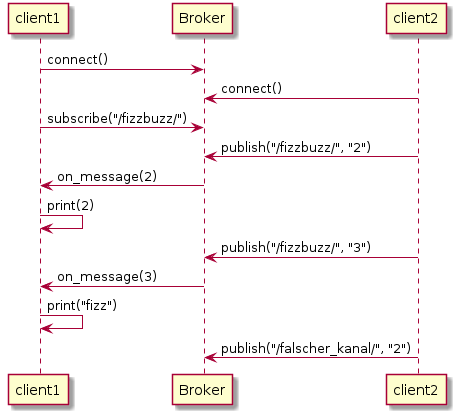
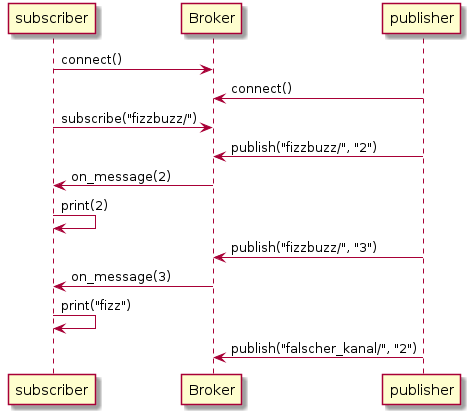
mqtt example split into pub and sub.

diff --git a/fizzbuzz.html b/fizzbuzz.html
@@ -4,7 +4,7 @@
 <html xmlns="http://www.w3.org/1999/xhtml" lang="en" xml:lang="en">
 <head>
 <title>FizzBuzz Katas</title>
-<!-- 2017-04-17 Mo 10:30 -->
+<!-- 2017-04-17 Mo 19:37 -->
 <meta  http-equiv="Content-Type" content="text/html;charset=utf-8" />
 <meta  name="generator" content="Org-mode" />
 <meta  name="author" content="Marco Bakera" />
@@ -1491,104 +1491,110 @@ Eine mögliche Kommunikation zwischen zwei Clients und dem Broker.
 <span class="linenr"> 2: </span><span style="color: #a020f0;">import</span> threading
 <span class="linenr"> 3: </span><span style="color: #a020f0;">import</span> time
 <span class="linenr"> 4: </span>
-<span class="linenr"> 5: </span><span style="color: #a020f0;">class</span> <span style="color: #228b22;">FizzbuzzMqttClient</span>:
+<span class="linenr"> 5: </span><span style="color: #a020f0;">class</span> <span style="color: #228b22;">FizzbuzzPublisher</span>:
 <span class="linenr"> 6: </span>    <span style="color: #a020f0;">def</span> <span style="color: #0000ff;">__init__</span>(<span style="color: #a020f0;">self</span>, server=<span style="color: #8b2252;">"iot.eclipse.org"</span>, port=1883):
-<span class="linenr"> 7: </span>        <span style="color: #8b2252;">"""Create a client and connect to  the eclipse test Broker by default."""</span>
-<span class="linenr"> 8: </span>        <span style="color: #a020f0;">self</span>._topic = <span style="color: #8b2252;">"/fizzbuzz/"</span>
-<span class="linenr"> 9: </span>        <span style="color: #a020f0;">self</span>.client = mqtt.Client()
-<span class="linenr">10: </span>        <span style="color: #a020f0;">self</span>.client.on_connect = <span style="color: #a020f0;">self</span>.on_connect
-<span class="linenr">11: </span>        <span style="color: #a020f0;">self</span>.client.on_message = <span style="color: #a020f0;">self</span>.on_message
-<span class="linenr">12: </span>        <span style="color: #a020f0;">self</span>.client.connect(server, port, keepalive=60)
+<span class="linenr"> 7: </span>        <span style="color: #a020f0;">self</span>.client = mqtt.Client()
+<span class="linenr"> 8: </span>        <span style="color: #a020f0;">self</span>.client.connect(server, port, keepalive=60)
+<span class="linenr"> 9: </span>
+<span class="linenr">10: </span>    <span style="color: #a020f0;">def</span> <span style="color: #0000ff;">publish</span>(<span style="color: #a020f0;">self</span>, payload):
+<span class="linenr">11: </span>        <span style="color: #a020f0;">print</span>(<span style="color: #8b2252;">"[publish]"</span>, payload)
+<span class="linenr">12: </span>        <span style="color: #a020f0;">self</span>.client.publish(<span style="color: #8b2252;">"fizzbuzz/"</span>, payload)
 <span class="linenr">13: </span>
-<span class="linenr">14: </span>    <span style="color: #a020f0;">def</span> <span style="color: #0000ff;">start</span>(<span style="color: #a020f0;">self</span>):
-<span class="linenr">15: </span>        <span style="color: #a020f0;">self</span>.client.loop_forever()
-<span class="linenr">16: </span>
-<span class="linenr">17: </span>    <span style="color: #a020f0;">def</span> <span style="color: #0000ff;">on_connect</span>(<span style="color: #a020f0;">self</span>, client, userdata, flags, rc):
-<span class="linenr">18: </span>        <span style="color: #a020f0;">print</span>(<span style="color: #8b2252;">"[connected]"</span>)
-<span class="linenr">19: </span>        <span style="color: #a020f0;">self</span>.client.subscribe(<span style="color: #a020f0;">self</span>._topic)
-<span class="linenr">20: </span>
-<span class="linenr">21: </span>    <span style="color: #a020f0;">def</span> <span style="color: #0000ff;">on_message</span>(<span style="color: #a020f0;">self</span>, client, userdata, msg):
-<span class="linenr">22: </span>        <span style="color: #a0522d;">i</span> = <span style="color: #483d8b;">int</span>(msg.payload)
-<span class="linenr">23: </span>
-<span class="linenr">24: </span>        <span style="color: #a020f0;">if</span> i % 3 == 0 <span style="color: #a020f0;">and</span> i % 5 == 0:
-<span class="linenr">25: </span>            <span style="color: #a0522d;">answer</span> = <span style="color: #8b2252;">"fizzbuzz"</span>
-<span class="linenr">26: </span>        <span style="color: #a020f0;">elif</span> i % 3 == 0:
-<span class="linenr">27: </span>            <span style="color: #a0522d;">answer</span> = <span style="color: #8b2252;">"fizz"</span>
-<span class="linenr">28: </span>        <span style="color: #a020f0;">elif</span> i % 5 == 0:
-<span class="linenr">29: </span>            <span style="color: #a0522d;">answer</span> = <span style="color: #8b2252;">"buzz"</span>
-<span class="linenr">30: </span>        <span style="color: #a020f0;">else</span>:
-<span class="linenr">31: </span>            <span style="color: #a0522d;">answer</span> = i
-<span class="linenr">32: </span>
-<span class="linenr">33: </span>        <span style="color: #a020f0;">print</span>(<span style="color: #8b2252;">"[msg reveived] topic:"</span>, msg.topic, <span style="color: #8b2252;">"payload:"</span>, i, <span style="color: #8b2252;">"answer:"</span>, answer)
-<span class="linenr">34: </span>
-<span class="linenr">35: </span>    <span style="color: #a020f0;">def</span> <span style="color: #0000ff;">publish</span>(<span style="color: #a020f0;">self</span>, payload):
-<span class="linenr">36: </span>        <span style="color: #a020f0;">print</span>(<span style="color: #8b2252;">"[publish]"</span>, payload)
-<span class="linenr">37: </span>        <span style="color: #a020f0;">self</span>.client.publish(<span style="color: #a020f0;">self</span>._topic, payload)
-<span class="linenr">38: </span>
-<span class="linenr">39: </span>
-<span class="linenr">40: </span><span style="color: #b22222;">#### </span><span style="color: #b22222;">Client 1 ####</span>
-<span class="linenr">41: </span>
-<span class="linenr">42: </span><span style="color: #b22222;"># </span><span style="color: #b22222;">Start thread in background that responds to messages</span>
-<span class="linenr">43: </span><span style="color: #a0522d;">mqttc1</span> = FizzbuzzMqttClient()
-<span class="linenr">44: </span><span style="color: #a0522d;">th1</span> = threading.Thread(target=mqttc1.start, daemon=<span style="color: #008b8b;">True</span>)
-<span class="linenr">45: </span>th1.start()
-<span class="linenr">46: </span>
-<span class="linenr">47: </span><span style="color: #b22222;">#### </span><span style="color: #b22222;">Client 2 ####</span>
-<span class="linenr">48: </span>
-<span class="linenr">49: </span><span style="color: #a020f0;">print</span>(<span style="color: #8b2252;">"[start publishing]"</span>)
-<span class="linenr">50: </span><span style="color: #a0522d;">mqttc2</span> = FizzbuzzMqttClient()
-<span class="linenr">51: </span><span style="color: #a020f0;">for</span> i <span style="color: #a020f0;">in</span> <span style="color: #483d8b;">range</span>(1,21):
-<span class="linenr">52: </span>    mqttc2.publish(i)
-<span class="linenr">53: </span>    <span style="color: #b22222;"># </span><span style="color: #b22222;">waiting some time and give the subscribed client time to do the job.</span>
-<span class="linenr">54: </span>    time.sleep(0.1)
-<span class="linenr">55: </span>
-<span class="linenr">56: </span>time.sleep(3)
+<span class="linenr">14: </span>
+<span class="linenr">15: </span><span style="color: #a020f0;">class</span> <span style="color: #228b22;">FizzbuzzSubscriber</span>:
+<span class="linenr">16: </span>    <span style="color: #a020f0;">def</span> <span style="color: #0000ff;">__init__</span>(<span style="color: #a020f0;">self</span>, server=<span style="color: #8b2252;">"iot.eclipse.org"</span>, port=1883):
+<span class="linenr">17: </span>        <span style="color: #a020f0;">self</span>.client = mqtt.Client()
+<span class="linenr">18: </span>        <span style="color: #a020f0;">self</span>.client.on_connect = <span style="color: #a020f0;">self</span>.on_connect
+<span class="linenr">19: </span>        <span style="color: #a020f0;">self</span>.client.on_message = <span style="color: #a020f0;">self</span>.on_message
+<span class="linenr">20: </span>        <span style="color: #a020f0;">self</span>.client.connect(server, port, keepalive=60)
+<span class="linenr">21: </span>
+<span class="linenr">22: </span>    <span style="color: #a020f0;">def</span> <span style="color: #0000ff;">start</span>(<span style="color: #a020f0;">self</span>):
+<span class="linenr">23: </span>        <span style="color: #a020f0;">self</span>.client.loop_forever()
+<span class="linenr">24: </span>
+<span class="linenr">25: </span>    <span style="color: #a020f0;">def</span> <span style="color: #0000ff;">on_connect</span>(<span style="color: #a020f0;">self</span>, client, userdata, flags, rc):
+<span class="linenr">26: </span>        <span style="color: #a020f0;">print</span>(<span style="color: #8b2252;">"[connected]"</span>)
+<span class="linenr">27: </span>        <span style="color: #a020f0;">self</span>.client.subscribe(<span style="color: #8b2252;">"fizzbuzz/"</span>)
+<span class="linenr">28: </span>
+<span class="linenr">29: </span>    <span style="color: #a020f0;">def</span> <span style="color: #0000ff;">on_message</span>(<span style="color: #a020f0;">self</span>, client, userdata, msg):
+<span class="linenr">30: </span>        <span style="color: #a0522d;">i</span> = <span style="color: #483d8b;">int</span>(msg.payload)
+<span class="linenr">31: </span>
+<span class="linenr">32: </span>        <span style="color: #a020f0;">if</span> i % 3 == 0 <span style="color: #a020f0;">and</span> i % 5 == 0:
+<span class="linenr">33: </span>            <span style="color: #a0522d;">answer</span> = <span style="color: #8b2252;">"fizzbuzz"</span>
+<span class="linenr">34: </span>        <span style="color: #a020f0;">elif</span> i % 3 == 0:
+<span class="linenr">35: </span>            <span style="color: #a0522d;">answer</span> = <span style="color: #8b2252;">"fizz"</span>
+<span class="linenr">36: </span>        <span style="color: #a020f0;">elif</span> i % 5 == 0:
+<span class="linenr">37: </span>            <span style="color: #a0522d;">answer</span> = <span style="color: #8b2252;">"buzz"</span>
+<span class="linenr">38: </span>        <span style="color: #a020f0;">else</span>:
+<span class="linenr">39: </span>            <span style="color: #a0522d;">answer</span> = i
+<span class="linenr">40: </span>
+<span class="linenr">41: </span>        <span style="color: #a020f0;">print</span>(<span style="color: #8b2252;">"[msg reveived] topic:"</span>, msg.topic, <span style="color: #8b2252;">"payload:"</span>, i, <span style="color: #8b2252;">"answer:"</span>, answer)
+<span class="linenr">42: </span>
+<span class="linenr">43: </span>
+<span class="linenr">44: </span><span style="color: #b22222;">#### </span><span style="color: #b22222;">Subscriber ####</span>
+<span class="linenr">45: </span>
+<span class="linenr">46: </span><span style="color: #b22222;"># </span><span style="color: #b22222;">Start thread in background that responds to messages</span>
+<span class="linenr">47: </span><span style="color: #a020f0;">print</span>(<span style="color: #8b2252;">"[subscribing]"</span>)
+<span class="linenr">48: </span><span style="color: #a0522d;">sub</span> = FizzbuzzSubscriber()
+<span class="linenr">49: </span><span style="color: #a0522d;">th1</span> = threading.Thread(target=sub.start, daemon=<span style="color: #008b8b;">True</span>)
+<span class="linenr">50: </span>th1.start()
+<span class="linenr">51: </span>
+<span class="linenr">52: </span><span style="color: #b22222;">#### </span><span style="color: #b22222;">Publisher ####</span>
+<span class="linenr">53: </span>
+<span class="linenr">54: </span><span style="color: #a020f0;">print</span>(<span style="color: #8b2252;">"[start publishing]"</span>)
+<span class="linenr">55: </span><span style="color: #a0522d;">pub</span> = FizzbuzzPublisher()
+<span class="linenr">56: </span><span style="color: #a020f0;">for</span> i <span style="color: #a020f0;">in</span> <span style="color: #483d8b;">range</span>(1,21):
+<span class="linenr">57: </span>    pub.publish(i)
+<span class="linenr">58: </span>    <span style="color: #b22222;"># </span><span style="color: #b22222;">waiting some time and give the subscribed client time to do the job.</span>
+<span class="linenr">59: </span>    time.sleep(0.1)
+<span class="linenr">60: </span>
+<span class="linenr">61: </span>time.sleep(1)
 </pre>
 </div>
 
 <pre class="example">
+[subscribing]
 [start publishing]
 [publish] 1
 [connected]
 [publish] 2
 [publish] 3
 [publish] 4
-[msg reveived] topic: /fizzbuzz/ payload: 1 answer: 1
-[msg reveived] topic: /fizzbuzz/ payload: 2 answer: 2
+[msg reveived] topic: fizzbuzz/ payload: 1 answer: 1
+[msg reveived] topic: fizzbuzz/ payload: 2 answer: 2
 [publish] 5
-[msg reveived] topic: /fizzbuzz/ payload: 3 answer: fizz
 [publish] 6
 [publish] 7
-[msg reveived] topic: /fizzbuzz/ payload: 4 answer: 4
-[msg reveived] topic: /fizzbuzz/ payload: 5 answer: buzz
 [publish] 8
-[msg reveived] topic: /fizzbuzz/ payload: 6 answer: fizz
 [publish] 9
-[msg reveived] topic: /fizzbuzz/ payload: 7 answer: 7
 [publish] 10
+[msg reveived] topic: fizzbuzz/ payload: 3 answer: fizz
 [publish] 11
-[msg reveived] topic: /fizzbuzz/ payload: 8 answer: 8
-[msg reveived] topic: /fizzbuzz/ payload: 9 answer: fizz
+[msg reveived] topic: fizzbuzz/ payload: 4 answer: 4
+[msg reveived] topic: fizzbuzz/ payload: 5 answer: buzz
+[msg reveived] topic: fizzbuzz/ payload: 6 answer: fizz
+[msg reveived] topic: fizzbuzz/ payload: 7 answer: 7
+[msg reveived] topic: fizzbuzz/ payload: 8 answer: 8
+[msg reveived] topic: fizzbuzz/ payload: 9 answer: fizz
 [publish] 12
-[msg reveived] topic: /fizzbuzz/ payload: 10 answer: buzz
+[msg reveived] topic: fizzbuzz/ payload: 10 answer: buzz
 [publish] 13
-[msg reveived] topic: /fizzbuzz/ payload: 11 answer: 11
 [publish] 14
+[msg reveived] topic: fizzbuzz/ payload: 11 answer: 11
+[msg reveived] topic: fizzbuzz/ payload: 12 answer: fizz
 [publish] 15
-[msg reveived] topic: /fizzbuzz/ payload: 12 answer: fizz
-[msg reveived] topic: /fizzbuzz/ payload: 13 answer: 13
+[msg reveived] topic: fizzbuzz/ payload: 13 answer: 13
 [publish] 16
-[msg reveived] topic: /fizzbuzz/ payload: 14 answer: 14
+[msg reveived] topic: fizzbuzz/ payload: 14 answer: 14
 [publish] 17
-[msg reveived] topic: /fizzbuzz/ payload: 15 answer: fizzbuzz
 [publish] 18
+[msg reveived] topic: fizzbuzz/ payload: 15 answer: fizzbuzz
+[msg reveived] topic: fizzbuzz/ payload: 16 answer: 16
 [publish] 19
-[msg reveived] topic: /fizzbuzz/ payload: 16 answer: 16
-[msg reveived] topic: /fizzbuzz/ payload: 17 answer: 17
+[msg reveived] topic: fizzbuzz/ payload: 17 answer: 17
 [publish] 20
-[msg reveived] topic: /fizzbuzz/ payload: 18 answer: fizz
-[msg reveived] topic: /fizzbuzz/ payload: 19 answer: 19
-[msg reveived] topic: /fizzbuzz/ payload: 20 answer: buzz
+[msg reveived] topic: fizzbuzz/ payload: 18 answer: fizz
+[msg reveived] topic: fizzbuzz/ payload: 19 answer: 19
+[msg reveived] topic: fizzbuzz/ payload: 20 answer: buzz
 </pre>
 </div>
 </div>
@@ -1801,7 +1807,7 @@ fizz
 </div>
 <div id="postamble" class="status">
 <p class="author">Author: Marco Bakera</p>
-<p class="date">Created: 2017-04-17 Mo 10:30</p>
+<p class="date">Created: 2017-04-17 Mo 19:37</p>
 <p class="creator"><a href="http://www.gnu.org/software/emacs/">Emacs</a> 24.5.1 (<a href="http://orgmode.org">Org</a> mode 8.2.10)</p>
 <p class="validation"><a href="http://validator.w3.org/check?uri=referer">Validate</a></p>
 </div>
